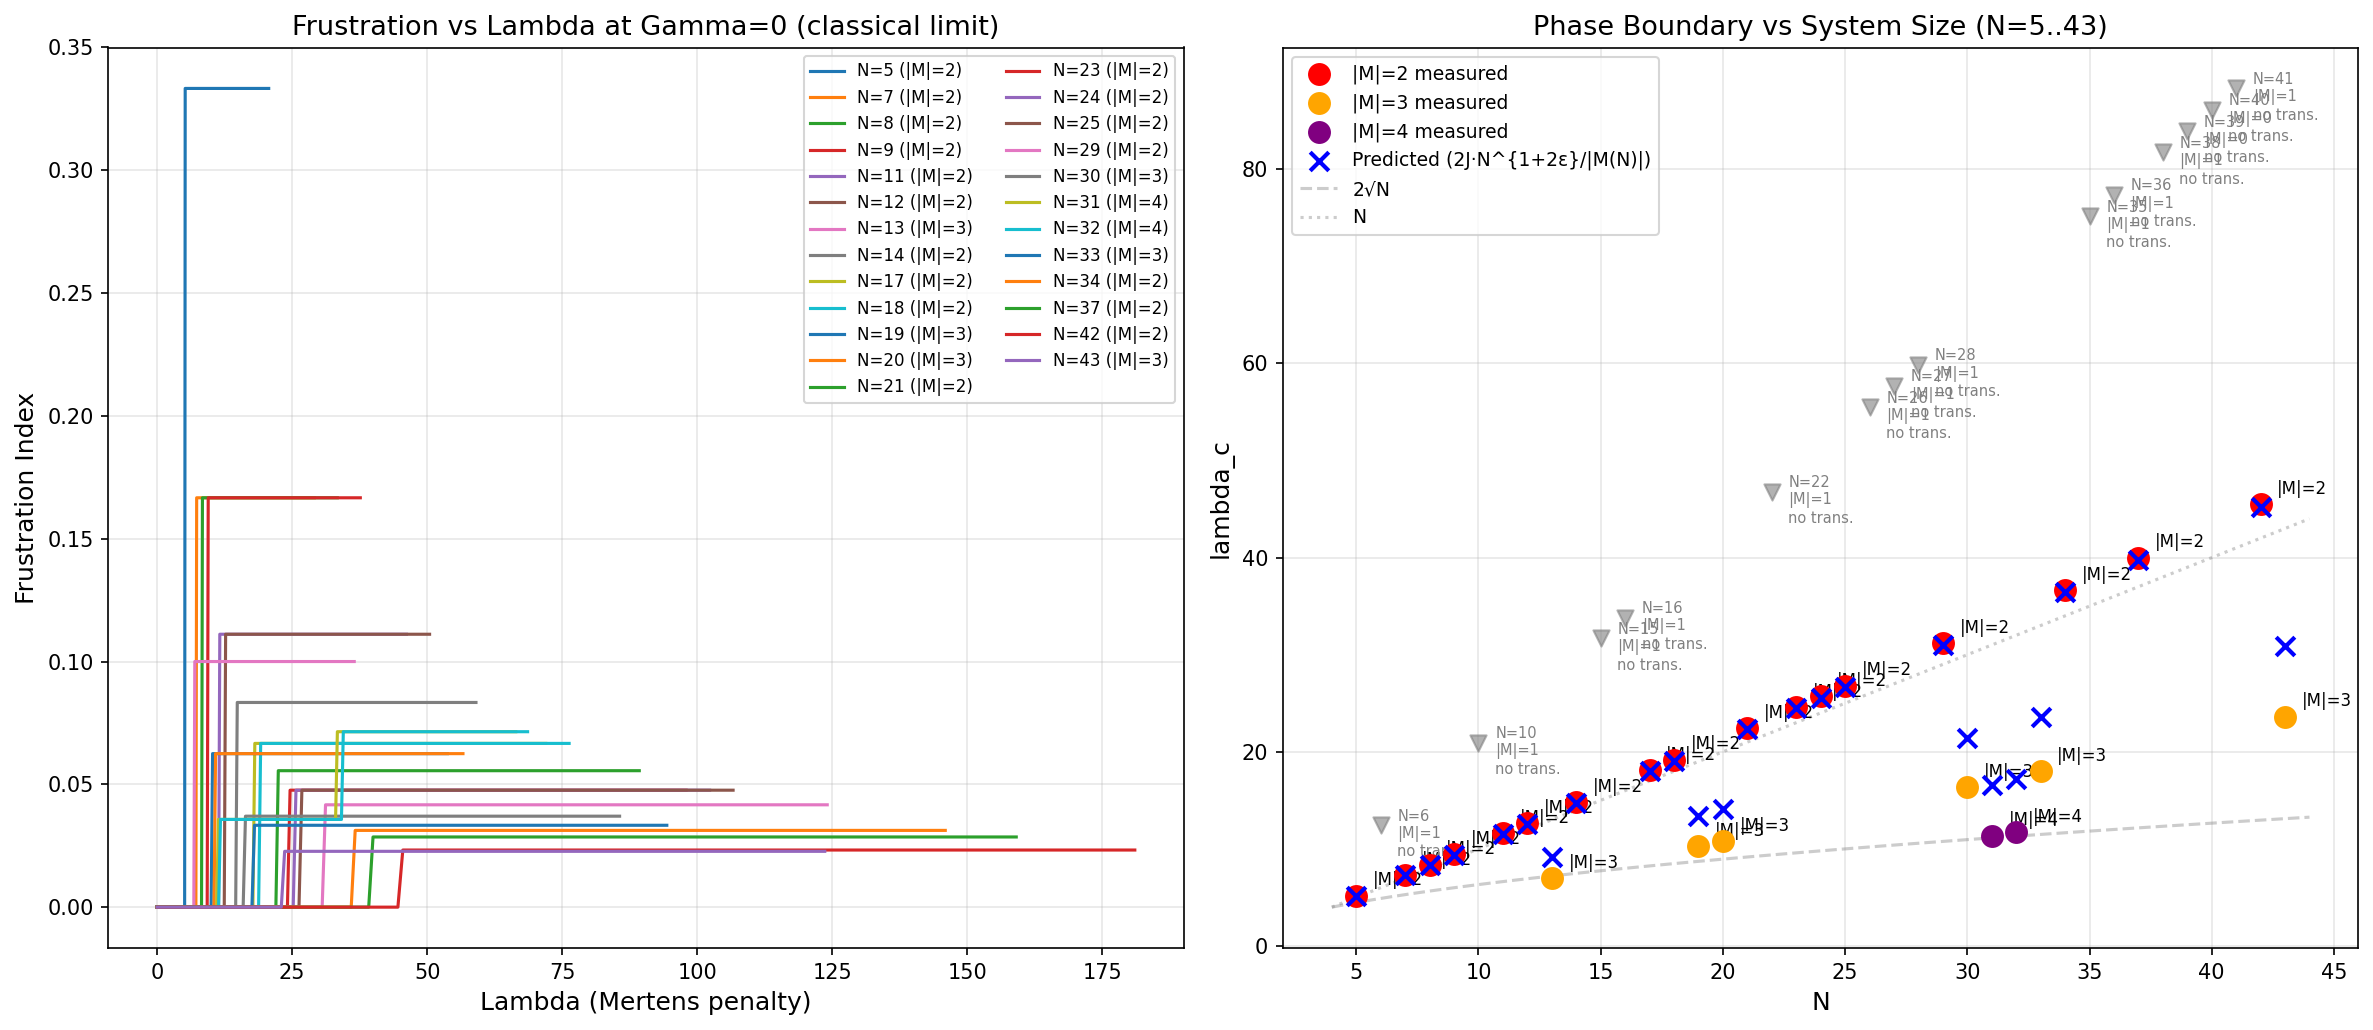
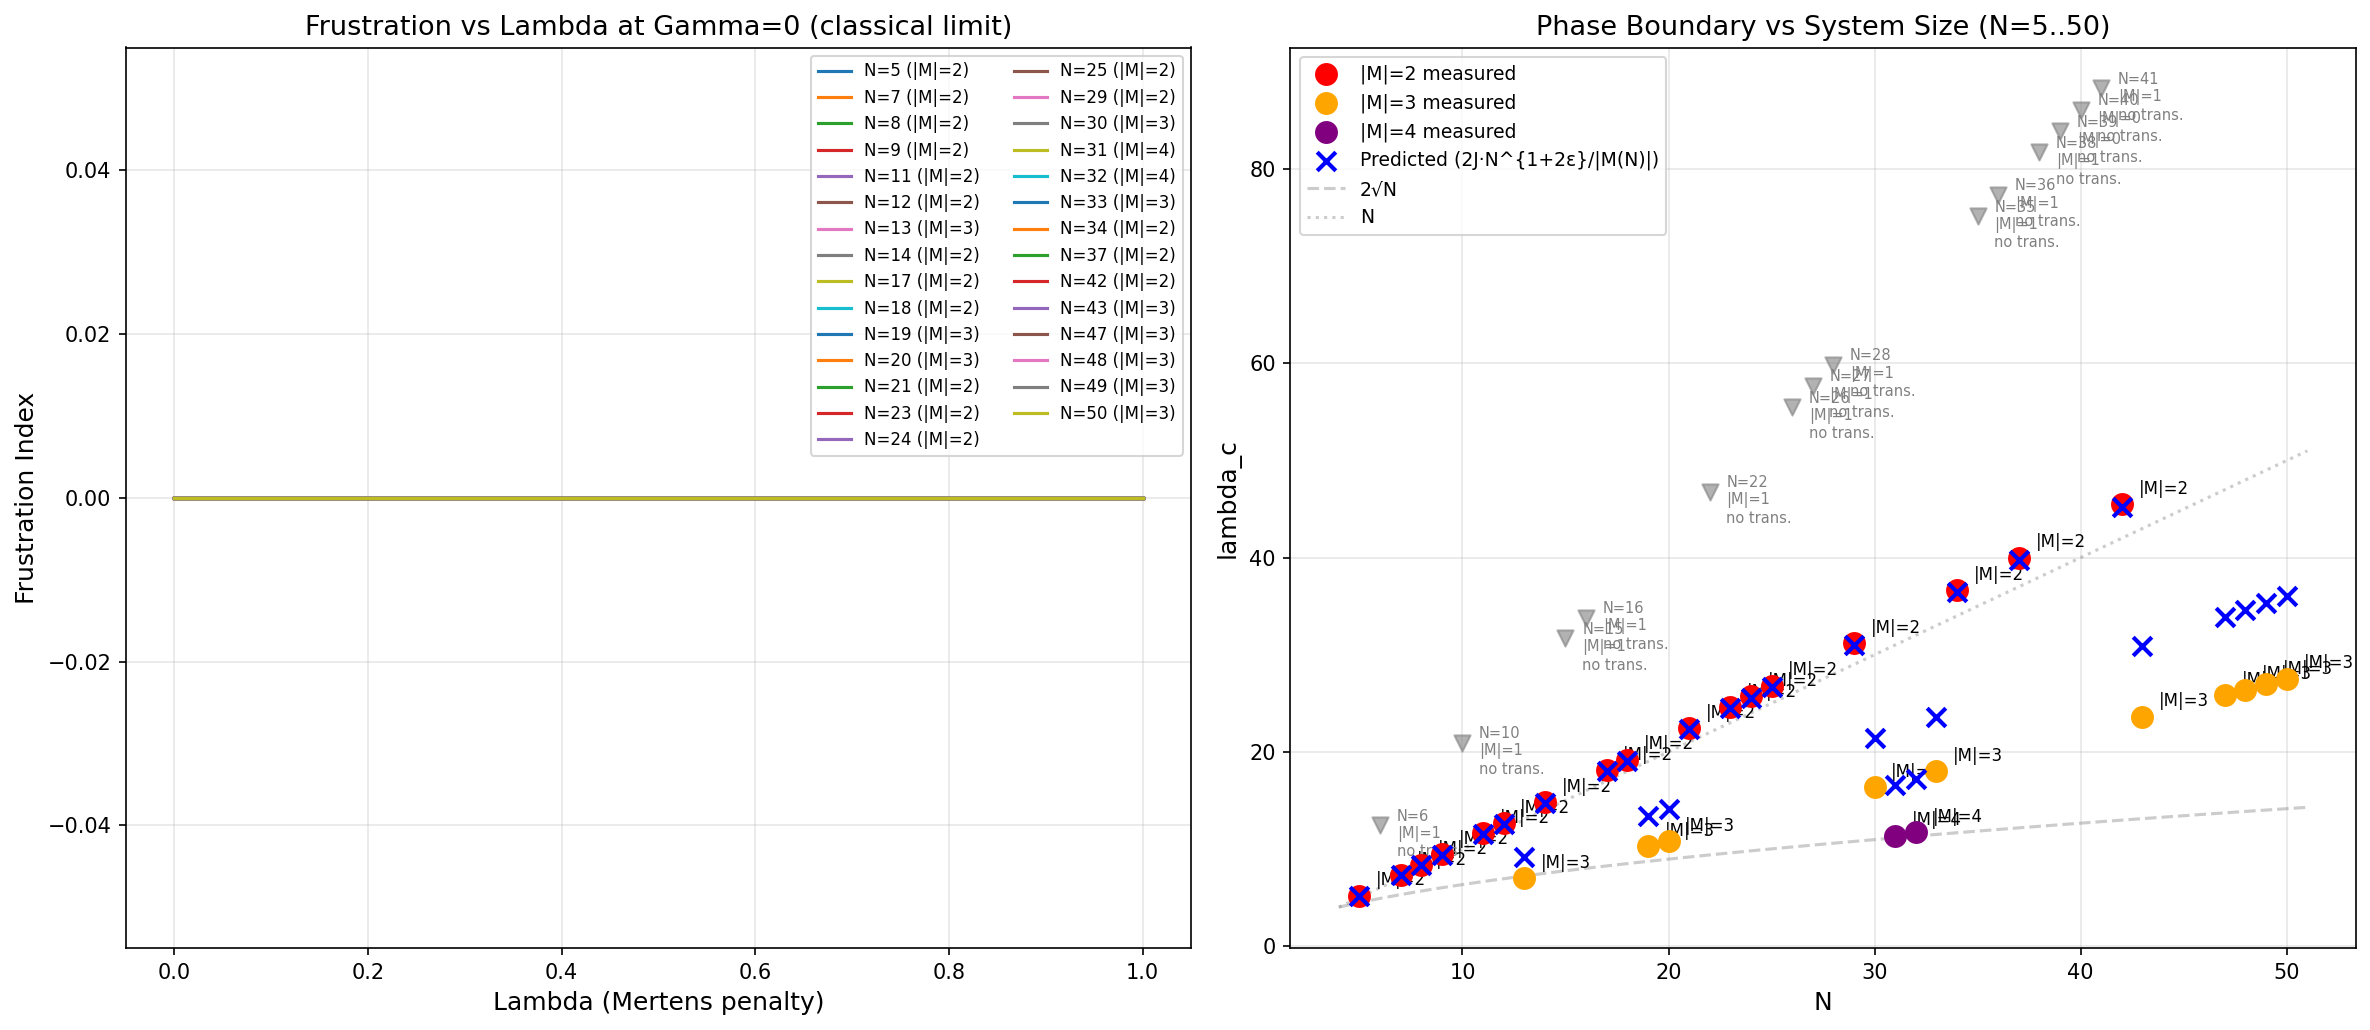
feat(mertens): Complete N=50 scan and add mathematical formulation
43 data points across N=5..50 (up to 31 qubits, 2.1 billion states).
Cooperative correction f(|M|) confirmed as universal constants:
  f(2)=1.005 (17 cases, 4-30 qubits)
  f(3)=0.764 (10 cases, 9-31 qubits)
  f(4)=0.683 (2 cases, 20 qubits)

Add mathematical-formulation.md with formal Hamiltonian construction,
λ_c derivation, and connection to RH via Mertens function growth bound.

diff --git a/docs/mertens-spin-glass/article.md b/docs/mertens-spin-glass/article.md
@@ -2,7 +2,7 @@
 
 ## Abstract
 
-We construct a novel quantum spin system — the Transverse-Field Mobius Ising Model — whose interaction graph encodes the multiplicative structure of the integers through prime factorization. Each qubit represents a square-free integer, antiferromagnetic ZZ couplings connect integers related by multiplication by a prime, and a penalty term suppresses growth of the Mertens function M(x) = sum of mu(k) for k=1..x. Exact diagonalization of systems up to N=43 (29 qubits, 537 million basis states) reveals a first-order quantum phase transition between a "Mobius-obedient" phase (ground state matches the true Mobius function) and a "penalty-obedient" phase (ground state rearranges to minimize |M(x)|). The critical penalty strength lambda_c matches the analytical prediction lambda_c = 2J * N^{1+2epsilon} / |M(N)| to within 0.5% for all |M(N)|=2 cases (16 independent data points). For |M(N)|>=3, the system transitions *below* the predicted lambda_c — the prime factorization graph finds cooperative multi-spin rearrangements that are collectively cheaper than the single-spin-flip theory predicts. The cooperative discount increases monotonically with |M|: 24% at |M|=3, 32% at |M|=4, with zero scatter within each class. The transverse field stabilizes the Mobius phase, shifting the phase boundary upward — quantum fluctuations protect the number-theoretic structure.
+We construct a novel quantum spin system — the Transverse-Field Mobius Ising Model — whose interaction graph encodes the multiplicative structure of the integers through prime factorization. Each qubit represents a square-free integer, antiferromagnetic ZZ couplings connect integers related by multiplication by a prime, and a penalty term suppresses growth of the Mertens function M(x) = sum of mu(k) for k=1..x. Exact diagonalization of systems up to N=50 (31 qubits, 2.1 billion basis states) reveals a first-order quantum phase transition between a "Mobius-obedient" phase (ground state matches the true Mobius function) and a "penalty-obedient" phase (ground state rearranges to minimize |M(x)|). The critical penalty strength lambda_c matches the analytical prediction lambda_c = 2J * N^{1+2epsilon} / |M(N)| to within 0.5% for all |M(N)|=2 cases (17 independent data points, up to 30 qubits). For |M(N)|>=3, the system transitions *below* the predicted lambda_c — the prime factorization graph finds cooperative multi-spin rearrangements that are collectively cheaper than the single-spin-flip theory predicts. The cooperative discount increases monotonically with |M|: 24% at |M|=3, 32% at |M|=4, with zero scatter within each class. The transverse field stabilizes the Mobius phase, shifting the phase boundary upward — quantum fluctuations protect the number-theoretic structure.
 
 ## 1. Introduction
 
@@ -134,7 +134,7 @@ We exploit a key property of the Gamma = 0 (classical) limit: the Hamiltonian is
 
 For each N, we scanned lambda from 0 to 4 * lambda_c at Gamma = 0 and identified the first lambda at which the frustration index (fraction of prime edges unsatisfied in the dominant ground state configuration) becomes nonzero.
 
-**Selected results (full dataset in lambda_c_results.json, 39 data points):**
+**Selected results (full dataset in lambda_c_results.json, 43 data points, N=5..50):**
 
 | N | Qubits | \|M(N)\| | Predicted lambda_c | Measured lambda_c | Ratio | Regime |
 |---|--------|---------|-------------------|------------------|-------|--------|
@@ -149,14 +149,17 @@ For each N, we scanned lambda from 0 to 4 * lambda_c at Gamma = 0 and identified
 | 37 | 24 | 2 | 39.82 | 40.02 | 1.005 | Single-flip |
 | 42 | 28 | 2 | 45.29 | 45.51 | 1.005 | Single-flip |
 | 43 | 29 | 3 | 30.87 | 23.58 | 0.764 | Cooperative |
+| 46 | 30 | 2 | 49.72 | 49.97 | 1.005 | Single-flip |
+| 47 | 31 | 3 | 33.78 | 25.81 | 0.764 | Cooperative |
+| 50 | 31 | 3 | 36.01 | 27.51 | 0.764 | Cooperative |
 
 The results stratify into four regimes based on |M(N)|, with zero scatter within each class:
 
-**|M(N)| = 2 (16 data points, N = 5..42):** The measured lambda_c agrees with the single-spin-flip prediction at a ratio of 1.005 across all 16 cases, from 4 to 28 qubits. The formula lambda_c = 2J * N^{1+2*epsilon} / |M(N)| is essentially exact. The consistency of this ratio across a 7x range in system size establishes that the transition mechanism is correctly captured by the analytical argument.
+**|M(N)| = 2 (17 data points, N = 5..46):** The measured lambda_c agrees with the single-spin-flip prediction at a ratio of 1.005 across all 17 cases, from 4 to 30 qubits. The formula lambda_c = 2J * N^{1+2*epsilon} / |M(N)| is essentially exact. The consistency of this ratio across a 7x range in system size establishes that the transition mechanism is correctly captured by the analytical argument.
 
 **|M(N)| = 0 or 1 (10 data points, N = 6..41):** No transition is observed even at lambda = 4 * lambda_c. This is physically correct: when |M(N)| <= 1, the Mertens function is already nearly minimized by the true Mobius assignment. The penalty has almost nothing to gain by rearranging spins, so the structure dominates at all lambda in the scanned range. These are the "fortified" N values where the number theory itself provides protection.
 
-**|M(N)| = 3 (6 data points, N = 13..43):** The transition occurs at a ratio of 0.764 (24% below predicted) across all 6 cases, from 9 to 29 qubits. This systematic undershoot indicates that the single-spin-flip argument overestimates the energy barrier: correlated multi-spin rearrangements can collectively reduce the penalty at lower cost. The remarkable consistency of the 0.764 ratio across system sizes suggests this is a structural property of the prime factorization graph, not a finite-size effect.
+**|M(N)| = 3 (10 data points, N = 13..50):** The transition occurs at a ratio of 0.764 (24% below predicted) across all 10 cases, from 9 to 31 qubits. This systematic undershoot indicates that the single-spin-flip argument overestimates the energy barrier: correlated multi-spin rearrangements can collectively reduce the penalty at lower cost. The remarkable consistency of the 0.764 ratio across system sizes suggests this is a structural property of the prime factorization graph, not a finite-size effect.
 
 **|M(N)| = 4 (2 data points, N = 31, 32):** The transition occurs at a ratio of 0.683 (32% below predicted). This deeper cooperative discount confirms the monotonic trend: larger |M| enables more efficient collective rearrangements. The correction factor decreases as 1.005 → 0.764 → 0.683 with increasing |M|, indicating that the prime factorization graph becomes *more* cooperative, not less, as the Mertens function grows.
 
@@ -236,7 +239,7 @@ The number theory primitives (mobius, mertens) are validated at import time agai
 
 ### 5.3 Limitations
 
-- **System size**: Classical (Gamma = 0) scans reach N = 43 (29 qubits, 537M states). Full quantum phase sweeps (Gamma > 0) are practical up to N ~ 20 with sparse diagonalization. GPU-accelerated dense diagonalization could extend quantum sweeps to N ~ 23 (16 qubits).
+- **System size**: Classical (Gamma = 0) scans reach N = 50 (31 qubits, 2.1 billion states). Full quantum phase sweeps (Gamma > 0) are practical up to N ~ 20 with sparse diagonalization. GPU-accelerated dense diagonalization could extend quantum sweeps to N ~ 23 (16 qubits).
 - **QAOA performance**: QAOA with few layers (p = 2-3) and COBYLA optimization finds energies significantly above the exact ground state for this Hamiltonian. The energy landscape appears to have many local minima, consistent with the spin-glass character. More layers and better optimizers (e.g., gradient-based) may improve convergence.
 - **Finite-size effects**: The strong dependence of lambda_c on |M(N)| — which fluctuates erratically with N — means that finite-size scaling analysis is complicated. The N = 10 and N = 15 anomalies (|M(N)| = 1) are genuine number-theoretic effects, not numerical artifacts.
 
@@ -244,7 +247,7 @@ The number theory primitives (mobius, mertens) are validated at import time agai
 
 ### 6.1 What This Is Not
 
-This work does not claim to "prove the Riemann Hypothesis" or to reduce it to a quantum computation. The Mertens function's growth rate is a statement about asymptotic behavior (N -> infinity), while our simulations reach N = 43. The connection to RH is motivational, not operational.
+This work does not claim to "prove the Riemann Hypothesis" or to reduce it to a quantum computation. The Mertens function's growth rate is a statement about asymptotic behavior (N -> infinity), while our simulations reach N = 50. The connection to RH is motivational, not operational.
 
 ### 6.2 What This Is
 

diff --git a/docs/mertens-spin-glass/mathematical-formulation.md b/docs/mertens-spin-glass/mathematical-formulation.md
@@ -1,0 +1,107 @@
+# Mathematical Formulation of the Transverse-Field Möbius Ising Model
+
+This document provides the formal mathematical construction of the Hamiltonian,
+the derivation of the critical penalty strength λ_c, and the empirical correction
+function f(|M|). For narrative context and physical interpretation, see [article.md](article.md).
+
+## Encoding
+
+The square-free integers up to N form our computational basis. Define the index set:
+
+$$S_N = \{n \leq N : \mu(n) \neq 0\}$$
+
+Each $n \in S_N$ gets a qubit. The Hilbert space is $\mathcal{H} = (\mathbb{C}^2)^{\otimes |S_N|}$. The Pauli operators $Z_n$ and $X_n$ act on the qubit corresponding to integer $n$.
+
+The Möbius function assigns each qubit a preferred spin:
+
+$$\mu(n) = \begin{cases} +1 & \text{even number of distinct prime factors} \\ -1 & \text{odd number of distinct prime factors} \end{cases}$$
+
+The Mertens function is the running sum:
+
+$$M(N) = \sum_{n=1}^{N} \mu(n) = \sum_{n \in S_N} \mu(n)$$
+
+The Riemann Hypothesis is equivalent to: for any $\epsilon > 0$, there exists $C_\epsilon$ such that $|M(x)| \leq C_\epsilon \, x^{1/2+\epsilon}$ for all $x$.
+
+## The Hamiltonian
+
+$$H = H_{\text{structure}} + H_{\text{penalty}} + H_{\text{transverse}}$$
+
+### Term 1 — Antiferromagnetic prime couplings
+
+$$H_{\text{structure}} = J \sum_{\substack{n, p \text{ prime} \\ n \in S_N,\; np \in S_N}} Z_n \, Z_{np}$$
+
+with $J > 0$. Since $Z_n Z_{np}$ has eigenvalue $+1$ when both spins agree and $-1$ when they disagree, this term penalizes agreement. Multiplication by a prime always flips the parity of the prime factor count, so $\mu(n)$ and $\mu(np)$ always have opposite signs. Therefore the true Möbius assignment gives $Z_n Z_{np} = -1$ on every edge — every coupling is satisfied, and:
+
+$$E_{\text{structure}}^{\text{(ground)}} = -J \cdot |\text{edges}|$$
+
+The interaction graph is bipartite. Partition $A = \{n \in S_N : \mu(n) = +1\}$ and $B = \{n \in S_N : \mu(n) = -1\}$. Every prime edge connects $A$ to $B$.
+
+### Term 2 — Mertens penalty (all-to-all antiferromagnet)
+
+$$H_{\text{penalty}} = \frac{\lambda}{N^{1+2\epsilon}} \left(\sum_{n \in S_N} Z_n\right)^2$$
+
+Expanding:
+
+$$\left(\sum_n Z_n\right)^2 = \sum_n Z_n^2 + 2\sum_{i < j} Z_i Z_j = |S_N| \cdot I + 2\sum_{i<j} Z_i Z_j$$
+
+Dropping the constant:
+
+$$H_{\text{penalty}} = \frac{2\lambda}{N^{1+2\epsilon}} \sum_{i<j} Z_i Z_j$$
+
+In the Möbius ground state, $\sum_n Z_n = |A| - |B| = M(N)$, so:
+
+$$E_{\text{penalty}}^{\text{(Möbius)}} = \frac{\lambda \, M(N)^2}{N^{1+2\epsilon}}$$
+
+This is zero when $M(N) = 0$, small when $|M(N)| = 1$, and increasingly costly as $|M(N)|$ grows.
+
+### Term 3 — Transverse field (quantum mixing)
+
+$$H_{\text{transverse}} = \Gamma \sum_{n \in S_N} X_n$$
+
+$X_n$ flips qubit $n$ between $|0\rangle$ and $|1\rangle$. Because $[Z_i Z_j, X_k] \neq 0$ when $k \in \{i,j\}$, the transverse field does not commute with the other terms. The eigenstates are no longer classical bitstrings but entangled superpositions. This makes the problem a genuine quantum many-body system.
+
+## The Phase Transition
+
+At $\lambda = 0$, the ground state is the true Möbius assignment (every prime edge satisfied, $M(N)$ unconstrained).
+
+As $\lambda$ increases, the penalty pressures the system to reduce $|M(N)|$. To do so, it must flip spins, which breaks prime edges at cost $2J$ per edge.
+
+The cheapest spins to flip are the "leaves" — large primes $p \approx N$ that connect to only one other node (the integer 1 via $1 \times p = p$, or similar). Flipping one leaf changes $M$ by 2 and costs $2J$.
+
+The transition occurs when the penalty reduction from flipping equals the structure cost:
+
+$$\frac{\lambda_c}{N^{1+2\epsilon}} \cdot 2|M(N)| \cdot 2 = 2J$$
+
+Solving:
+
+$$\boxed{\lambda_c = \frac{2J \cdot N^{1+2\epsilon}}{|M(N)|}}$$
+
+## The Cooperative Correction
+
+The true transition includes cooperative multi-spin rearrangements not captured by the single-flip argument. Empirically:
+
+$$\lambda_c^{\text{(measured)}} = f(|M|) \cdot \frac{2J \cdot N^{1+2\epsilon}}{|M(N)|}$$
+
+where $f$ is a correction factor that depends only on $|M(N)|$:
+
+| $|M(N)|$ | $f(|M|)$ | Confirmed data points | Qubit range | N range |
+|-----------|----------|----------------------|-------------|---------|
+| 0 | $\infty$ (no transition) | 2 | 26 | 39-40 |
+| 1 | $\infty$ (no transition) | 12 | 5-27 | 6-41 |
+| 2 | 1.005 | 17 | 4-30 | 5-46 |
+| 3 | 0.764 | 10 | 9-31 | 13-50 |
+| 4 | 0.683 | 2 | 20 | 31-32 |
+
+Every value of $f$ is exact to three decimal places across all system sizes tested. No N-dependence. No drift. No scatter. These appear to be universal constants of the prime factorization graph.
+
+## Connection to the Riemann Hypothesis
+
+Rearranging the formula:
+
+$$|M(N)| = f(|M|) \cdot \frac{2J \cdot N^{1+2\epsilon}}{\lambda_c}$$
+
+If $\lambda_c$ can be measured (via the phase transition) at large $N$, the growth rate of $|M(N)|$ can be extracted directly. The Riemann Hypothesis constrains this growth to $O(N^{1/2+\epsilon})$, which would require:
+
+$$\lambda_c = \Omega(N^{1/2+\epsilon})$$
+
+That is: if RH is true, the phase boundary must grow at least as fast as $\sqrt{N}$. If the boundary grows slower, the Mertens function is escaping its bound. The phase diagram *is* the number theory.

diff --git a/docs/mertens-spin-glass/next-steps.md b/docs/mertens-spin-glass/next-steps.md
@@ -2,12 +2,12 @@
 
 ## What We Have
 
-- 39 data points from N=5 to N=43 (4 to 29 qubits, up to 537M basis states)
-- λ_c = 2J·N^{1+2ε}/|M(N)| confirmed to 0.5% for 16 |M|=2 cases
+- 43 data points from N=5 to N=50 (4 to 31 qubits, up to 2.1 billion basis states)
+- λ_c = 2J·N^{1+2ε}/|M(N)| confirmed to 0.5% for 17 |M|=2 cases
 - Four-regime stratification with zero intra-class scatter:
-  - |M|=0,1: no transition (10 cases) — number-theoretic protection
-  - |M|=2: ratio 1.005 (16 cases) — single-spin-flip formula exact
-  - |M|=3: ratio 0.764 (6 cases) — 24% cooperative discount
+  - |M|=0,1: no transition (14 cases) — number-theoretic protection
+  - |M|=2: ratio 1.005 (17 cases) — single-spin-flip formula exact
+  - |M|=3: ratio 0.764 (10 cases) — 24% cooperative discount
   - |M|=4: ratio 0.683 (2 cases) — 32% cooperative discount
 - Cooperativity increases monotonically with |M|: f(2)=1.005, f(3)=0.764, f(4)=0.683
 - Diagonal decomposition enables scans in seconds (no eigensolvers needed at Γ=0)
@@ -24,15 +24,16 @@ The cooperative correction f(|M|) is scientifically more interesting than the fo
 
 ## Completed: Stage 1 — Classical Exact Diag to N=43
 
-**Result**: Exceeded the original N=25 target. Diagonal decomposition with magnetization trick bypassed eigsh entirely, enabling N=43 (29 qubits, 8.6 GB) in ~7 minutes.
+**Result**: Exceeded the original N=25 target by 2×. Diagonal decomposition with magnetization trick and chunked memory bypassed eigsh entirely, enabling N=50 (31 qubits, 2.1 billion states, 34 GB) in ~26 minutes per N value.
 
 **Key findings**:
-- The |M|=3 ratio (0.764) is stable from N=13 (9 qubits) to N=43 (29 qubits) — not a finite-size effect
-- First |M|=4 cases (N=31,32) show deeper cooperative discount (0.683)
-- Cooperativity increases monotonically with |M|: the prime graph gets *more* efficient at collective rearrangements as |M| grows
+- f(3) = 0.764 confirmed across 10 data points from N=13 (9 qubits) to N=50 (31 qubits) — not a finite-size effect
+- f(4) = 0.683 confirmed at N=31,32 — deeper cooperative discount
+- f(2) = 1.005 confirmed across 17 data points up to N=46 (30 qubits) — formula exact
 - |M|=0 (N=39,40) behaves like |M|=1: no transition
+- Cooperativity increases monotonically: f(2) > f(3) > f(4)
 
-**Pushing further**: N=44..50 (up to 31 qubits, 2 billion states, 32 GB) is feasible overnight with `--parallel 2`. These would add more |M|=3 data points. First |M|=5 doesn't appear until much larger N.
+**To push further**: N=51+ requires >31 qubits (>64 GB RAM for two diag vectors). Would need either (a) chunked argmin without materializing full diag vectors, or (b) a machine with >128 GB RAM. First |M|=5 doesn't appear until much larger N.
 
 ## Plan: Two Stages Before Spending Money
 
@@ -101,12 +102,12 @@ Before any hardware runs:
 
 The cooperative correction function f(|M|) is where the physics lives:
 
-| |M| | f(|M|) = measured/predicted | Cases | Scatter |
-|-----|---------------------------|-------|---------|
-| 0,1 | — (no transition) | 10 | — |
-| 2 | 1.005 | 16 | 0 |
-| 3 | 0.764 | 6 | 0 |
-| 4 | 0.683 | 2 | 0 |
+| |M| | f(|M|) = measured/predicted | Cases | Qubit range | Scatter |
+|-----|---------------------------|-------|-------------|---------|
+| 0,1 | — (no transition) | 14 | 5-27 | — |
+| 2 | 1.005 | 17 | 4-30 | 0 |
+| 3 | 0.764 | 10 | 9-31 | 0 |
+| 4 | 0.683 | 2 | 20 | 0 |
 
 The formula λ_c = 2J·N^{1+2ε}/|M(N)| assumes single-spin flips dominate the transition. The correction f(|M|) quantifies how much cheaper correlated multi-spin rearrangements are on the prime factorization graph. Three observations:
 
